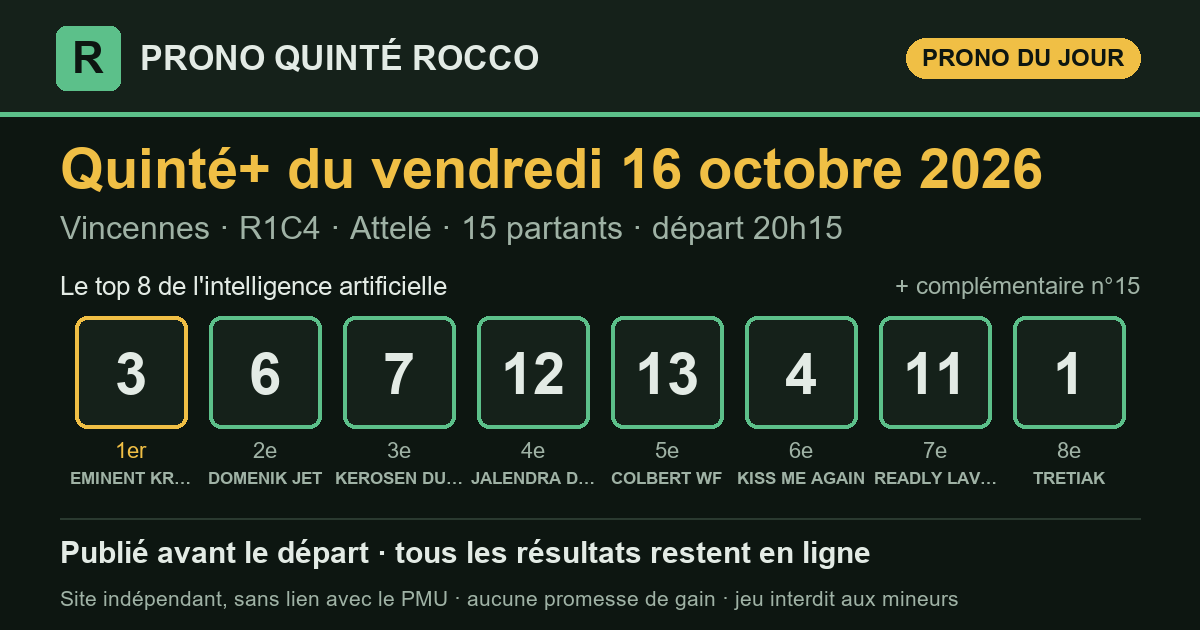
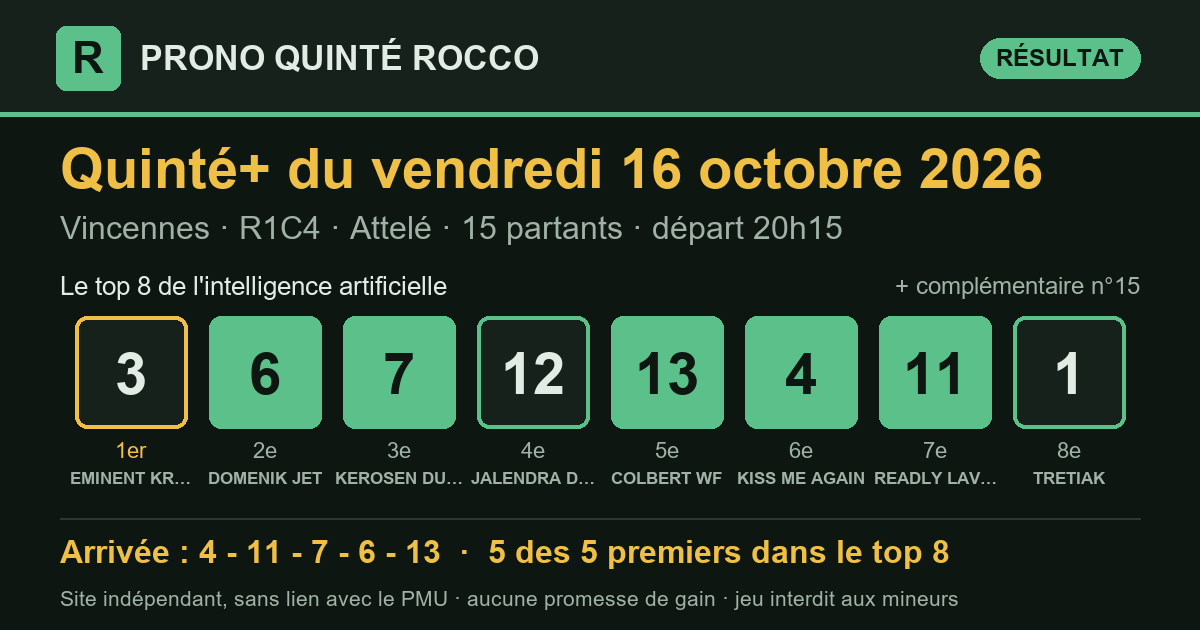
Prono Quinté+ 2026-10-16 Vincennes R1C4 — publié le 16/10/2026 20:30 (heure de Paris)

diff --git a/partants.html b/partants.html
@@ -3,7 +3,7 @@
 <head>
 <meta charset="utf-8">
 <meta name="viewport" content="width=device-width, initial-scale=1, viewport-fit=cover">
-<title>Partants du Quinté+ du vendredi 16 octobre 2026 — Prono Quinté Rocco</title>
+<title>Partants du Quinté+ du samedi 17 octobre 2026 — Prono Quinté Rocco</title>
 <meta name="description" content="Les partants du prochain Quinté+ (programme officiel du PMU), avec le rang du prono IA et les liens vers les pronostics de la presse.">
 <link rel="canonical" href="https://prono-quinte-rocco.fr/partants.html">
 <link rel="stylesheet" href="style.css?v=3c55eb2c">
@@ -13,7 +13,7 @@
 <meta property="og:site_name" content="Prono Quinté Rocco">
 <meta property="og:locale" content="fr_FR">
 <meta property="og:type" content="website">
-<meta property="og:title" content="Partants du Quinté+ du vendredi 16 octobre 2026 — Prono Quinté Rocco">
+<meta property="og:title" content="Partants du Quinté+ du samedi 17 octobre 2026 — Prono Quinté Rocco">
 <meta property="og:description" content="Les partants du prochain Quinté+ (programme officiel du PMU), avec le rang du prono IA et les liens vers les pronostics de la presse.">
 <meta property="og:url" content="https://prono-quinte-rocco.fr/partants.html">
 <meta name="twitter:card" content="summary">
@@ -29,95 +29,120 @@
   <p class="surtitre">Programme officiel du PMU</p>
   <h1>Les partants du prochain Quinté+</h1>
   <div class="fiche-course">
-    <p class="fiche-date">Vendredi 16 octobre 2026</p>
-    <div class="fiche-rc"><span class="pastille" title="Réunion 1">R1</span><span class="pastille" title="Course 4">C4</span><span class="fiche-nom">Prix Themis</span></div>
-    <p class="meta">Vincennes · Trot_attele · 2 850 m · 15 partants</p>
-    <p class="fiche-depart">Départ <b>20:15</b> <span>heure de Paris</span></p>
+    <p class="fiche-date">Samedi 17 octobre 2026</p>
+    <div class="fiche-rc"><span class="pastille" title="Réunion 1">R1</span><span class="pastille" title="Course 3">C3</span><span class="fiche-nom">Prix Prince d&#x27;Ecouen - Grand Handicap d&#x27;Automne</span></div>
+    <p class="meta">Auteuil · Obstacle · 4 300 m · 19 partants</p>
+    <p class="fiche-depart">Départ <b>15:15</b> <span>heure de Paris</span></p>
   </div>
   <p class="surtitre">Les pronostics ailleurs sur le web</p>
-  <div class="liens"><a class="lien-ext" href="https://www.turfoo.fr/programmes-courses/261016/reunion1-vincennes/course4-prix-themis/pronostics-presse/" rel="noopener" target="_blank"><b>Les pronostics de la presse →</b><span>sur Turfoo (site extérieur)</span></a><a class="lien-ext" href="https://www.geny.com/programme/2026-10-16" rel="noopener" target="_blank"><b>Partants et pronostics →</b><span>programme du jour sur Geny (site extérieur)</span></a></div>
+  <div class="liens"><a class="lien-ext" href="https://www.turfoo.fr/programmes-courses/261017/reunion1-auteuil/course3-prix-prince-d-ecouen-grand-handicap-d-automne/pronostics-presse/" rel="noopener" target="_blank"><b>Les pronostics de la presse →</b><span>sur Turfoo (site extérieur)</span></a><a class="lien-ext" href="https://www.geny.com/programme/2026-10-17" rel="noopener" target="_blank"><b>Partants et pronostics →</b><span>programme du jour sur Geny (site extérieur)</span></a></div>
   <div class="liste-boite"><table class="liste-partants">
     <thead><tr><th>N°</th><th>Cheval</th><th class="cote"><span class="long">Cote du matin</span><span class="court">Cote</span></th>
     <th class="ia"><span class="long">Prono IA</span><span class="court">IA</span></th></tr></thead>
     <tbody><tr>
   <td><span class="tapis petit">1</span></td>
-  <td><span class="cheval">TRETIAK</span><span class="sous">D. THOMAIN · Mme Maria TORNQVIST</span></td>
-  <td class="cote num">23,0</td>
-  <td class="ia"><span class="etat place">8<sup>e</sup></span></td>
+  <td><span class="cheval">GOLIATH D&#x27;AUNOU</span><span class="sous">F.GILES · N. GEORGE &amp; A. ZETTERHOLM</span></td>
+  <td class="cote num">—</td>
+  <td class="ia">—</td>
 </tr><tr>
   <td><span class="tapis petit">2</span></td>
-  <td><span class="cheval">KIPHYLE DESBOIS</span><span class="sous">LILIAN BERTIN · P.Y. ROCHARD</span></td>
-  <td class="cote num">81,0</td>
+  <td><span class="cheval">LOQUAS</span><span class="sous">K.NABET · Y.FOUIN (S)</span></td>
+  <td class="cote num">—</td>
   <td class="ia">—</td>
 </tr><tr>
   <td><span class="tapis petit">3</span></td>
-  <td><span class="cheval">EMINENT KRONOS</span><span class="sous">F. NIVARD · J. UNTERSTEINER</span></td>
-  <td class="cote num">2,8</td>
-  <td class="ia"><span class="etat place">1<sup>er</sup></span></td>
+  <td><span class="cheval">KIRIKOU DES MERS</span><span class="sous">B.LE CLERC · MME G.MENATO</span></td>
+  <td class="cote num">—</td>
+  <td class="ia">—</td>
 </tr><tr>
   <td><span class="tapis petit">4</span></td>
-  <td><span class="cheval">KISS ME AGAIN</span><span class="sous">A. BARRIER · K. CHAMPENOIS</span></td>
-  <td class="cote num">11,0</td>
-  <td class="ia"><span class="etat place">6<sup>e</sup></span></td>
+  <td><span class="cheval">GARDONS LE SOURIRE</span><span class="sous">T.CHEVILLARD · GAB.LEENDERS (S)</span></td>
+  <td class="cote num">—</td>
+  <td class="ia">—</td>
 </tr><tr>
   <td><span class="tapis petit">5</span></td>
-  <td><span class="cheval">KOMERE DE CORDAY</span><span class="sous">GUILLAUME MARTIN · ARNAUD DESMOTTES</span></td>
-  <td class="cote num">30,0</td>
+  <td><span class="cheval">KEL STORY</span><span class="sous">L.PHILIPPERON · M.SEROR (S)</span></td>
+  <td class="cote num">—</td>
   <td class="ia">—</td>
 </tr><tr>
   <td><span class="tapis petit">6</span></td>
-  <td><span class="cheval">DOMENIK JET</span><span class="sous">M. ABRIVARD · W. NIMCZYK</span></td>
-  <td class="cote num">7,4</td>
-  <td class="ia"><span class="etat place">2<sup>e</sup></span></td>
+  <td><span class="cheval">GREY FIGHTER</span><span class="sous">J.REVELEY · N. GEORGE &amp; A. ZETTERHOLM</span></td>
+  <td class="cote num">—</td>
+  <td class="ia">—</td>
 </tr><tr>
   <td><span class="tapis petit">7</span></td>
-  <td><span class="cheval">KEROSEN DU GERS</span><span class="sous">E. LELIEVRE · E. LELIEVRE</span></td>
-  <td class="cote num">10,0</td>
-  <td class="ia"><span class="etat place">3<sup>e</sup></span></td>
+  <td><span class="cheval">ROCK AND ROLL</span><span class="sous">J.PHELIPPE · M.SEROR (S)</span></td>
+  <td class="cote num">—</td>
+  <td class="ia">—</td>
 </tr><tr>
   <td><span class="tapis petit">8</span></td>
-  <td><span class="cheval">KERALDO</span><span class="sous">CH. MARTENS · A. VANBERGHEN</span></td>
-  <td class="cote num">55,0</td>
+  <td><span class="cheval">ALERIC</span><span class="sous">A.GAUTRON · F.FOUCHER</span></td>
+  <td class="cote num">—</td>
   <td class="ia">—</td>
 </tr><tr>
   <td><span class="tapis petit">9</span></td>
-  <td><span class="cheval">MAX OCCAGNES</span><span class="sous">D. LOCQUENEUX · D. LOCQUENEUX</span></td>
-  <td class="cote num">38,0</td>
+  <td><span class="cheval">NEVER RISK</span><span class="sous">G.MEUNIER · H.MERIENNE (S)</span></td>
+  <td class="cote num">—</td>
   <td class="ia">—</td>
 </tr><tr>
   <td><span class="tapis petit">10</span></td>
-  <td><span class="cheval">RED HOT ROADSTER</span><span class="sous">F. OUVRIE · J. WESTHOLM</span></td>
-  <td class="cote num">61,0</td>
+  <td><span class="cheval">LEMNOS</span><span class="sous">A.ZULIANI · E.ANDIGNE D&#x27;</span></td>
+  <td class="cote num">—</td>
   <td class="ia">—</td>
 </tr><tr>
   <td><span class="tapis petit">11</span></td>
-  <td><span class="cheval">READLY LAVEC</span><span class="sous">B. ROCHARD · O.J. ANDERSSON</span></td>
-  <td class="cote num">13,0</td>
-  <td class="ia"><span class="etat place">7<sup>e</sup></span></td>
+  <td><span class="cheval">ROBIN HILL</span><span class="sous">T.BEAURAIN · L.CARBERRY (S)</span></td>
+  <td class="cote num">—</td>
+  <td class="ia">—</td>
 </tr><tr>
   <td><span class="tapis petit">12</span></td>
-  <td><span class="cheval">JALENDRA DE MALAC</span><span class="sous">M. MOTTIER · A.PH. GRIMAULT</span></td>
-  <td class="cote num">10,0</td>
-  <td class="ia"><span class="etat place">4<sup>e</sup></span></td>
+  <td><span class="cheval">INTERDIT DE JEU</span><span class="sous">M.CHAILLOLEAU · P&amp;C.PELTIER (S)</span></td>
+  <td class="cote num">—</td>
+  <td class="ia">—</td>
 </tr><tr>
   <td><span class="tapis petit">13</span></td>
-  <td><span class="cheval">COLBERT WF</span><span class="sous">E. RAFFIN · H.E. BONDO</span></td>
-  <td class="cote num">11,0</td>
-  <td class="ia"><span class="etat place">5<sup>e</sup></span></td>
-</tr><tr>
+  <td><span class="cheval">KARAFON</span><span class="sous">N.FERREIRA · H.MERIENNE (S)</span></td>
+  <td class="cote num">—</td>
+  <td class="ia">—</td>
+</tr><tr class="np">
   <td><span class="tapis petit">14</span></td>
-  <td><span class="cheval">KAMEHAMEHA</span><span class="sous">A. LHERETE · Antoine LHERETE</span></td>
-  <td class="cote num">28,0</td>
+  <td><span class="cheval">LORELEY DES PLACES</span><span class="sous">L.ZULIANI · F.NICOLLE</span></td>
+  <td class="cote num">NP</td>
   <td class="ia">—</td>
 </tr><tr>
   <td><span class="tapis petit">15</span></td>
-  <td><span class="cheval">ELEGANCE KRONOS</span><span class="sous">A. ABRIVARD · L.CL. ABRIVARD</span></td>
-  <td class="cote num">19,0</td>
-  <td class="ia"><span class="etat place">compl.</span></td>
+  <td><span class="cheval">MOHICAN</span><span class="sous">B.GELHAY · M.PITART</span></td>
+  <td class="cote num">—</td>
+  <td class="ia">—</td>
+</tr><tr>
+  <td><span class="tapis petit">16</span></td>
+  <td><span class="cheval">L&#x27;AZIZA DES PLACES</span><span class="sous">G.FAIVRE-PICON · J.VANA JR</span></td>
+  <td class="cote num">—</td>
+  <td class="ia">—</td>
+</tr><tr>
+  <td><span class="tapis petit">17</span></td>
+  <td><span class="cheval">THE MUST</span><span class="sous">T.VENTADOUR · MME G.MENATO</span></td>
+  <td class="cote num">—</td>
+  <td class="ia">—</td>
+</tr><tr>
+  <td><span class="tapis petit">18</span></td>
+  <td><span class="cheval">LILETTE</span><span class="sous">JF.RAMBUR · M.PITART</span></td>
+  <td class="cote num">—</td>
+  <td class="ia">—</td>
+</tr><tr>
+  <td><span class="tapis petit">19</span></td>
+  <td><span class="cheval">CHANT DE GARDE</span><span class="sous">L.BRECHET · F.FOUCHER</span></td>
+  <td class="cote num">—</td>
+  <td class="ia">—</td>
+</tr><tr>
+  <td><span class="tapis petit">20</span></td>
+  <td><span class="cheval">PARFUM D&#x27;UNE REINE</span><span class="sous">M.HERVE · H.MERIENNE (S)</span></td>
+  <td class="cote num">—</td>
+  <td class="ia">—</td>
 </tr></tbody>
   </table></div>
-  <p class="meta">Le rang du prono IA est celui publié sur ce site. Sous chaque cheval : driver · entraîneur. Partants et cotes : programme
-  officiel du PMU, lu le 16/10 à 11:52 (heure de Paris). NP = non-partant.</p>
+  <p class="meta">Le prono IA de cette course sera publié le matin de la course, avant le départ. Sous chaque cheval : jockey · entraîneur. Partants et cotes : programme
+  officiel du PMU, lu le 16/10 à 20:30 (heure de Paris). NP = non-partant.</p>
 </section>
 </main>
 <footer class="pied">

diff --git a/index.html b/index.html
@@ -16,7 +16,7 @@
 <meta property="og:title" content="Pronostic Quinté+ du vendredi 16 octobre 2026 — Prono Quinté Rocco">
 <meta property="og:description" content="Le pronostic du Quinté+ par intelligence artificielle, publié avant le départ, avec tous les résultats et le rendement réel.">
 <meta property="og:url" content="https://prono-quinte-rocco.fr/">
-<meta property="og:image" content="https://prono-quinte-rocco.fr/partage/2026-10-16.png?v=65531d66">
+<meta property="og:image" content="https://prono-quinte-rocco.fr/partage/2026-10-16.png?v=a932bb7a">
 <meta property="og:image:type" content="image/png">
 <meta property="og:image:width" content="1200">
 <meta property="og:image:height" content="630">
@@ -31,15 +31,15 @@
 </header>
 <main>
 <section class="une" aria-labelledby="t-jour">
-  <p class="surtitre">Quinté+ du jour</p>
+  <p class="surtitre">Dernier Quinté+</p>
   <h1 id="t-jour">Le prono du Quinté+, résultats compris</h1>
   <p class="chapo">Chaque matin, une intelligence artificielle classe les partants du
   Quinté+. Le classement est publié avant le départ, puis comparé à l'arrivée
   officielle. Tous les résultats restent en ligne, les bons comme les mauvais.</p>
   <article class="carte-course">
-  <div class="tete"><h2>Vendredi 16 octobre 2026</h2><span class="etat attente">arrivée en attente</span></div>
+  <div class="tete"><h2>Vendredi 16 octobre 2026</h2><span class="etat place">5 des 5 premiers dans le top 8</span></div>
   <p class="meta">Vincennes · <strong>R1C4</strong> · Attelé · 15 partants · lisibilité <span class="note" aria-label="note 3 sur 5"><i class="on"></i><i class="on"></i><i class="on"></i><i class=""></i><i class=""></i></span> 3/5</p>
-  <ol class="partants" aria-label="Classement du prono"><li><span class="rang">1<sup>er</sup></span><span class="tapis ">3</span><span class="nom">EMINENT KRONOS</span></li><li><span class="rang">2<sup>e</sup></span><span class="tapis ">6</span><span class="nom">DOMENIK JET</span></li><li><span class="rang">3<sup>e</sup></span><span class="tapis ">7</span><span class="nom">KEROSEN DU GERS</span></li><li><span class="rang">4<sup>e</sup></span><span class="tapis ">12</span><span class="nom">JALENDRA DE MALAC</span></li><li><span class="rang">5<sup>e</sup></span><span class="tapis ">13</span><span class="nom">COLBERT WF</span></li><li><span class="rang">6<sup>e</sup></span><span class="tapis ">4</span><span class="nom">KISS ME AGAIN</span></li><li><span class="rang">7<sup>e</sup></span><span class="tapis ">11</span><span class="nom">READLY LAVEC</span></li><li><span class="rang">8<sup>e</sup></span><span class="tapis ">1</span><span class="nom">TRETIAK</span></li><li><span class="rang">compl.</span><span class="tapis creux">15</span><span class="nom">ELEGANCE KRONOS</span></li></ol>
+  <ol class="partants" aria-label="Classement du prono"><li><span class="rang">1<sup>er</sup></span><span class="tapis ">3</span><span class="nom">EMINENT KRONOS</span></li><li><span class="rang">2<sup>e</sup></span><span class="tapis plein">6</span><span class="nom">DOMENIK JET</span></li><li><span class="rang">3<sup>e</sup></span><span class="tapis plein">7</span><span class="nom">KEROSEN DU GERS</span></li><li><span class="rang">4<sup>e</sup></span><span class="tapis ">12</span><span class="nom">JALENDRA DE MALAC</span></li><li><span class="rang">5<sup>e</sup></span><span class="tapis plein">13</span><span class="nom">COLBERT WF</span></li><li><span class="rang">6<sup>e</sup></span><span class="tapis plein">4</span><span class="nom">KISS ME AGAIN</span></li><li><span class="rang">7<sup>e</sup></span><span class="tapis plein">11</span><span class="nom">READLY LAVEC</span></li><li><span class="rang">8<sup>e</sup></span><span class="tapis ">1</span><span class="nom">TRETIAK</span></li><li><span class="rang">compl.</span><span class="tapis creux">15</span><span class="nom">ELEGANCE KRONOS</span></li></ol>
   <div class="pied-carte"><span>Analysé le 16/10 à 11:43 · en ligne le 16/10 à 11:52 · départ à 20:15 (heure de Paris)</span><span><a href="quinte/2026-10-16.html">Détail de la course</a></span></div>
 </article>
   <div class="legende"><span><span class="tapis plein petit">4</span> numéro dans les 5 premiers</span>
@@ -62,7 +62,7 @@
 </section>
 <section class="bilan" aria-labelledby="t-bilan">
   <h2 id="t-bilan">Le bilan depuis le 8 septembre 2026</h2>
-  <div class="tableau chiffres"><div class="case"><span class="gros ">75 %</span><span class="lib">des arrivants trouvés dans le top 8</span><span class="ref">un top 8 tiré au hasard : 51 %</span></div><div class="case"><span class="gros ">86 %</span><span class="lib">des gagnants présents dans le top 8</span><span class="ref"></span></div><div class="case"><span class="gros ">51 %</span><span class="lib">1er du prono placé</span><span class="ref">sur 37 Quintés</span></div><div class="case"><span class="gros perte">0,94 €</span><span class="lib">rendus pour 1 € joué placé sur le 1er</span><span class="ref">rapports officiels PMU</span></div><div class="case"><span class="gros perte">0,45 €</span><span class="lib">rendus pour 1 € joué en Quinté+ combiné top 8</span><span class="ref">56 combinaisons, rapports PMU.fr, sur 37 Quintés</span></div></div>
+  <div class="tableau chiffres"><div class="case"><span class="gros ">75 %</span><span class="lib">des arrivants trouvés dans le top 8</span><span class="ref">un top 8 tiré au hasard : 51 %</span></div><div class="case"><span class="gros ">87 %</span><span class="lib">des gagnants présents dans le top 8</span><span class="ref"></span></div><div class="case"><span class="gros ">51 %</span><span class="lib">1er du prono placé</span><span class="ref">sur 37 Quintés</span></div><div class="case"><span class="gros perte">0,94 €</span><span class="lib">rendus pour 1 € joué placé sur le 1er</span><span class="ref">rapports officiels PMU</span></div><div class="case"><span class="gros perte">0,49 €</span><span class="lib">rendus pour 1 € joué en Quinté+ combiné top 8</span><span class="ref">56 combinaisons, rapports PMU.fr, sur 38 Quintés</span></div></div>
   <p class="avertissement">Moins de 1 € rendu pour 1 € joué : suivre ce prono à la lettre fait <strong>perdre de l'argent</strong> sur cette période. Il sert à analyser une course, pas à promettre un gain.</p>
 </section>
 </main>

diff --git a/quinte/2026-10-16.html b/quinte/2026-10-16.html
@@ -16,7 +16,7 @@
 <meta property="og:title" content="Pronostic Quinté+ du vendredi 16 octobre 2026 à Vincennes — Prono Quinté Rocco">
 <meta property="og:description" content="Prono Quinté+ du vendredi 16 octobre 2026 (Vincennes) : top 8, arrivée officielle et rapports PMU.fr.">
 <meta property="og:url" content="https://prono-quinte-rocco.fr/quinte/2026-10-16.html">
-<meta property="og:image" content="https://prono-quinte-rocco.fr/partage/2026-10-16.png?v=65531d66">
+<meta property="og:image" content="https://prono-quinte-rocco.fr/partage/2026-10-16.png?v=a932bb7a">
 <meta property="og:image:type" content="image/png">
 <meta property="og:image:width" content="1200">
 <meta property="og:image:height" content="630">
@@ -35,11 +35,19 @@
   <h1>Pronostic Quinté+ du vendredi 16 octobre 2026</h1>
   <p class="chapo">Vincennes · R1C4 · Attelé · 15 partants</p>
   <article class="carte-course">
-  <div class="tete"><h2>Le prono : top 8 et complémentaire</h2><span class="etat attente">arrivée en attente</span></div>
+  <div class="tete"><h2>Le prono : top 8 et complémentaire</h2><span class="etat place">5 des 5 premiers dans le top 8</span></div>
   <p class="meta">Vincennes · <strong>R1C4</strong> · Attelé · 15 partants · lisibilité <span class="note" aria-label="note 3 sur 5"><i class="on"></i><i class="on"></i><i class="on"></i><i class=""></i><i class=""></i></span> 3/5</p>
-  <ol class="partants" aria-label="Classement du prono"><li><span class="rang">1<sup>er</sup></span><span class="tapis ">3</span><span class="nom">EMINENT KRONOS</span></li><li><span class="rang">2<sup>e</sup></span><span class="tapis ">6</span><span class="nom">DOMENIK JET</span></li><li><span class="rang">3<sup>e</sup></span><span class="tapis ">7</span><span class="nom">KEROSEN DU GERS</span></li><li><span class="rang">4<sup>e</sup></span><span class="tapis ">12</span><span class="nom">JALENDRA DE MALAC</span></li><li><span class="rang">5<sup>e</sup></span><span class="tapis ">13</span><span class="nom">COLBERT WF</span></li><li><span class="rang">6<sup>e</sup></span><span class="tapis ">4</span><span class="nom">KISS ME AGAIN</span></li><li><span class="rang">7<sup>e</sup></span><span class="tapis ">11</span><span class="nom">READLY LAVEC</span></li><li><span class="rang">8<sup>e</sup></span><span class="tapis ">1</span><span class="nom">TRETIAK</span></li><li><span class="rang">compl.</span><span class="tapis creux">15</span><span class="nom">ELEGANCE KRONOS</span></li></ol>
+  <ol class="partants" aria-label="Classement du prono"><li><span class="rang">1<sup>er</sup></span><span class="tapis ">3</span><span class="nom">EMINENT KRONOS</span></li><li><span class="rang">2<sup>e</sup></span><span class="tapis plein">6</span><span class="nom">DOMENIK JET</span></li><li><span class="rang">3<sup>e</sup></span><span class="tapis plein">7</span><span class="nom">KEROSEN DU GERS</span></li><li><span class="rang">4<sup>e</sup></span><span class="tapis ">12</span><span class="nom">JALENDRA DE MALAC</span></li><li><span class="rang">5<sup>e</sup></span><span class="tapis plein">13</span><span class="nom">COLBERT WF</span></li><li><span class="rang">6<sup>e</sup></span><span class="tapis plein">4</span><span class="nom">KISS ME AGAIN</span></li><li><span class="rang">7<sup>e</sup></span><span class="tapis plein">11</span><span class="nom">READLY LAVEC</span></li><li><span class="rang">8<sup>e</sup></span><span class="tapis ">1</span><span class="nom">TRETIAK</span></li><li><span class="rang">compl.</span><span class="tapis creux">15</span><span class="nom">ELEGANCE KRONOS</span></li></ol>
   <div class="pied-carte"><span>Analysé le 16/10 à 11:43 · en ligne le 16/10 à 11:52 · départ à 20:15 (heure de Paris)</span><span></span></div>
 </article>
+<section class="carte-course" aria-labelledby="t-arr">
+  <div class="tete"><h2 id="t-arr">Arrivée officielle</h2></div>
+  <div class="rangee"><span class="tapis plein" title="1er">4</span><span class="tapis plein" title="2e">11</span><span class="tapis plein" title="3e">7</span><span class="tapis plein" title="4e">6</span><span class="tapis plein" title="5e">13</span></div>
+  <div class="deux">
+    <div><h3>Ce qu'aurait rendu le prono</h3><dl class="kv"><dt>1 € placé sur le 1er (n°3)</dt><dd>rapport manquant</dd><dt>1 € gagnant sur le 1er</dt><dd>rapport manquant</dd><dt>Quinté+ combiné top 8 (mise 112 €)</dt><dd>241,00 €</dd><dt>dont</dt><dd>Désordre × 1, Bonus 4sur5 × 15, Bonus 3 × 3</dd></dl></div>
+    <div><h3>Rapports officiels</h3><dl class="kv"><dt>e-Quinté+ Ordre (2 €)</dt><dd>18 338,80 €</dd><dt>e-Quinté+ Désordre (2 €)</dt><dd>152,80 €</dd><dt>e-Bonus 4sur5 (2 €)</dt><dd>5,00 €</dd><dt>e-Bonus 3 (2 €)</dt><dd>4,40 €</dd></dl></div>
+  </div>
+</section>
 </section>
 </main>
 <footer class="pied">

diff --git a/resultats.html b/resultats.html
@@ -39,8 +39,8 @@
     <tbody><tr>
   <td class="c-date"><a href="quinte/2026-10-16.html">16/10</a></td>
   <td class="c-course">Vincennes<br><span class="meta">R1C4 · Attelé</span></td>
-  <td data-label="Top 8 du prono"><div class="rangee"><span class="tapis petit">3</span><span class="tapis petit">6</span><span class="tapis petit">7</span><span class="tapis petit">12</span><span class="tapis petit">13</span><span class="tapis petit">4</span><span class="tapis petit">11</span><span class="tapis petit">1</span></div></td><td data-label="Arrivée"><span class="etat attente">en attente</span></td>
-  <td class="num" data-label="Trouvés">—</td><td data-label="1er du prono"><span class="etat attente">—</span></td><td class="mont" data-label="Quinté+ top 8 (mise 112 €)">—</td>
+  <td data-label="Top 8 du prono"><div class="rangee"><span class="tapis petit">3</span><span class="tapis plein petit">6</span><span class="tapis plein petit">7</span><span class="tapis petit">12</span><span class="tapis plein petit">13</span><span class="tapis plein petit">4</span><span class="tapis plein petit">11</span><span class="tapis petit">1</span></div></td><td data-label="Arrivée"><div class="rangee"><span class="tapis plein petit" title="1er">4</span><span class="tapis plein petit" title="2e">11</span><span class="tapis plein petit" title="3e">7</span><span class="tapis plein petit" title="4e">6</span><span class="tapis plein petit" title="5e">13</span></div></td>
+  <td class="num" data-label="Trouvés">5/5</td><td data-label="1er du prono"><span class="etat non">non placé</span></td><td class="mont " data-label="Quinté+ top 8 (mise 112 €)">241,00 €</td>
 </tr><tr>
   <td class="c-date"><a href="quinte/2026-10-15.html">15/10</a></td>
   <td class="c-course">Chantilly<br><span class="meta">R1C1 · Plat</span></td>
@@ -231,7 +231,7 @@
 </section>
 <section class="bilan" aria-labelledby="t-bilan">
   <h2 id="t-bilan">Le bilan depuis le 8 septembre 2026</h2>
-  <div class="tableau chiffres"><div class="case"><span class="gros ">75 %</span><span class="lib">des arrivants trouvés dans le top 8</span><span class="ref">un top 8 tiré au hasard : 51 %</span></div><div class="case"><span class="gros ">86 %</span><span class="lib">des gagnants présents dans le top 8</span><span class="ref"></span></div><div class="case"><span class="gros ">51 %</span><span class="lib">1er du prono placé</span><span class="ref">sur 37 Quintés</span></div><div class="case"><span class="gros perte">0,94 €</span><span class="lib">rendus pour 1 € joué placé sur le 1er</span><span class="ref">rapports officiels PMU</span></div><div class="case"><span class="gros perte">0,45 €</span><span class="lib">rendus pour 1 € joué en Quinté+ combiné top 8</span><span class="ref">56 combinaisons, rapports PMU.fr, sur 37 Quintés</span></div></div>
+  <div class="tableau chiffres"><div class="case"><span class="gros ">75 %</span><span class="lib">des arrivants trouvés dans le top 8</span><span class="ref">un top 8 tiré au hasard : 51 %</span></div><div class="case"><span class="gros ">87 %</span><span class="lib">des gagnants présents dans le top 8</span><span class="ref"></span></div><div class="case"><span class="gros ">51 %</span><span class="lib">1er du prono placé</span><span class="ref">sur 37 Quintés</span></div><div class="case"><span class="gros perte">0,94 €</span><span class="lib">rendus pour 1 € joué placé sur le 1er</span><span class="ref">rapports officiels PMU</span></div><div class="case"><span class="gros perte">0,49 €</span><span class="lib">rendus pour 1 € joué en Quinté+ combiné top 8</span><span class="ref">56 combinaisons, rapports PMU.fr, sur 38 Quintés</span></div></div>
   <p class="avertissement">Moins de 1 € rendu pour 1 € joué : suivre ce prono à la lettre fait <strong>perdre de l'argent</strong> sur cette période. Il sert à analyser une course, pas à promettre un gain.</p>
 </section>
 </main>
